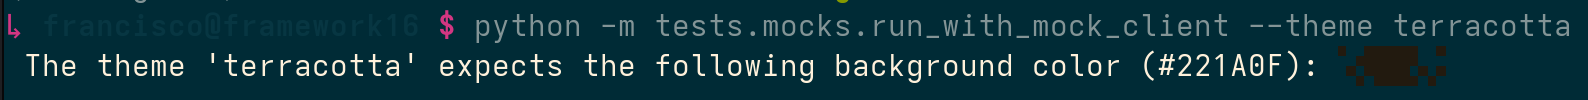
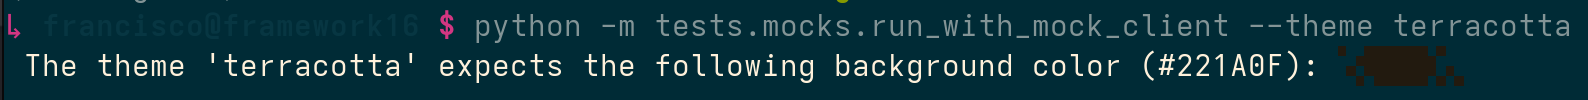
Added documentation links to themes, minor fix to usage docs, longer message about background color

Changed region(s): [[0.864, 0.48, 0.9257, 0.87]]

diff --git a/solveig/interface/cli.py b/solveig/interface/cli.py
@@ -100,7 +100,7 @@ class CLIInterface(SolveigInterface):
                     f"The theme '{self.theme.name}' expects the following background color ({self.theme.background}): ",
                     style=self.theme.text,
                 )
-                + Text("𜴙𜵟██𜵖𜵓", style=self.theme.background)
+                + Text("𜴙𜵟███𜶆𜶀", style=self.theme.background)
             )
 
         from rich._spinners import SPINNERS as RICH_SPINNERS

diff --git a/docs/usage.md b/docs/usage.md
@@ -95,15 +95,15 @@ see [Configuration Precedence](#configuration-precedence) for more.
 
 ### Interface
 
-| Option             | CLI Flag                        | Description                                  | Default      |
-|--------------------|---------------------------------|----------------------------------------------|--------------|
-| `verbose`          | `-v, --verbose`                 | Enable verbose logging                       | `false`      |
-| `add_examples`     | `--add-examples, --ex`          | Include examples in system prompt            | `false`      |
-| `add_os_info`      | `--add-os-info, --os`           | Include OS info in system prompt             | `false`      |
-| `exclude_username` | `--exclude-username, --no-user` | Exclude username from OS info                | `false`      |
-| `max_output_lines` | `-l, --max-output-lines`        | Max lines of output to display in a text box | `20`         |
-| `wait_before_user` | `-w, --wait-before-user`        | Time (seconds) before starting user response | `1.0`        |
-| `theme`            | `--theme`                       | CLI theme to use (`--theme none` to disable)   | `terracotta` |
+| Option             | CLI Flag                        | Description                                                            | Default      |
+|--------------------|---------------------------------|------------------------------------------------------------------------|--------------|
+| `verbose`          | `-v, --verbose`                 | Enable verbose logging                                                 | `false`      |
+| `add_examples`     | `--add-examples, --ex`          | Include examples in system prompt                                      | `false`      |
+| `add_os_info`      | `--add-os-info, --os`           | Include OS info in system prompt                                       | `false`      |
+| `exclude_username` | `--exclude-username, --no-user` | Exclude username from OS info                                          | `false`      |
+| `max_output_lines` | `-l, --max-output-lines`        | Max lines of output to display in a text box                           | `20`         |
+| `wait_before_user` | `-w, --wait-before-user`        | Time (seconds) between assistant and user response                     | `1.0`        |
+| `theme`            | `--theme`                       | CLI theme to use (`none` to disable, see [Themes](./themes/themes.md)) | `terracotta` |
 
 ### System Resources
 

diff --git a/README.md b/README.md
@@ -43,6 +43,7 @@ solveig -u "https://openrouter.ai/api/v1" -k "<API_KEY>" -m "moonshotai/kimi-k2:
 
 - **[About & Comparisons](./docs/about.md)** - Detailed features, FAQ and how Solveig compares to alternatives
 - **[Usage Guide](./docs/usage.md)** - Configuration options, examples, and advanced features
+- **[Themes](./docs/themes/themes.md)** - Themes explained, visual examples
 - **[Plugin Development](./docs/plugins.md)** - How to create and configure custom plugins
 - **[Contributing](./docs/contributing.md)** - Development setup, testing, and contribution guidelines
 

diff --git a/docs/themes/themes.md b/docs/themes/themes.md
@@ -17,7 +17,7 @@ solveig -u https://localhost:5001/v1 --theme none
 
 ### Background Color
 
-If you use a theme (including the default one), solveig will first print a message showing the intended
+If you use a theme (including the default one)t solveig will first print a message showing the intended
 background color and the hex code:
 ![Background color note](./background-note.png)
 
